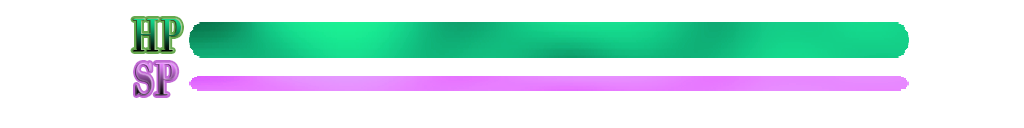
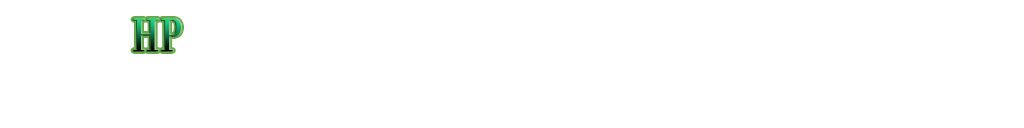
Player

Changed region(s): [[0.1875, 0.1562, 0.9062, 0.4688], [0.125, 0.4688, 0.9062, 0.7812]]

diff --git a/KAINA/Project/Laser.cpp b/KAINA/Project/Laser.cpp
@@ -67,10 +67,7 @@ CRectangle Laser::GetRect() {
 			m_ShotPos.y + 50);
 		break;
 	case RIGHTTOP:
-		Rec = CRectangle(m_ShotPos.x,
-			m_ShotPos.y,
-			m_ShotPos.x + m_LaserRange,
-			m_ShotPos.y + 50);
+		//Rec = CRectangle(GetSlopeRect());
 		break;
 	case LEFTTOP:
 		Rec = CRectangle(m_ShotPos.x - m_LaserRange,
@@ -133,6 +130,10 @@ CRectangle Laser::GetFireRect() {
 	
 	return *m_FireRec;
 }
+
+/*CRectangle Laser::GetSlopeRect() {
+	return;
+}*/
 
 
 void Laser::OutRange() {

diff --git a/KAINA/Project/CSelect.h b/KAINA/Project/CSelect.h
@@ -5,15 +5,16 @@
 class CSelect : public Scene_Base
 {
 private:
-	CTexture	m_SlctTex;
+	CTexture	m_SelectTex;
 	int m_NowSelect;
 public:
-	CSelect() : m_SlctTex(), m_NowSelect(0) {};
+	CSelect() : m_SelectTex(), m_NowSelect(0) {};
 	~CSelect();
+	bool Load();
 	void Initialize();
 	void Update();
 	void Render();
 	void RenderDebug();
-	void Release() { m_SlctTex.Release(); }
+	void Release() { m_SelectTex.Release(); }
 };
 

diff --git a/KAINA/Project/Shot_Base.h b/KAINA/Project/Shot_Base.h
@@ -69,6 +69,6 @@ public:
 
 	void		SetScroll(float wx, float wy)		{		m_ScrollX = wx; m_ScrollY = wy; }
 
-	void SetBullet(int Stype, int drc, int natu)	{		m_ShotType = Stype; m_DrcType = drc; m_NatuType = natu; }
+	void SetBullet(int type, int drc, int natu)		{		m_ShotType = type; m_DrcType = drc; m_NatuType = natu; }
 };
 

diff --git a/KAINA/Project/Player.h b/KAINA/Project/Player.h
@@ -23,10 +23,14 @@ private:
 	CRectangle				m_SrcRect;
 	
 	int						m_HP;
+	int						m_SP;
 	int						m_DamageWait;
 
 	CTexture				m_FrameTexture;
 	CTexture				m_HPTexture;
+	CTexture				m_HPBarTexture;
+	CTexture				m_SPTexture;
+	CTexture				m_SPBarTexture;
 
 	CEffectManager*			m_pEffectManager;
 
